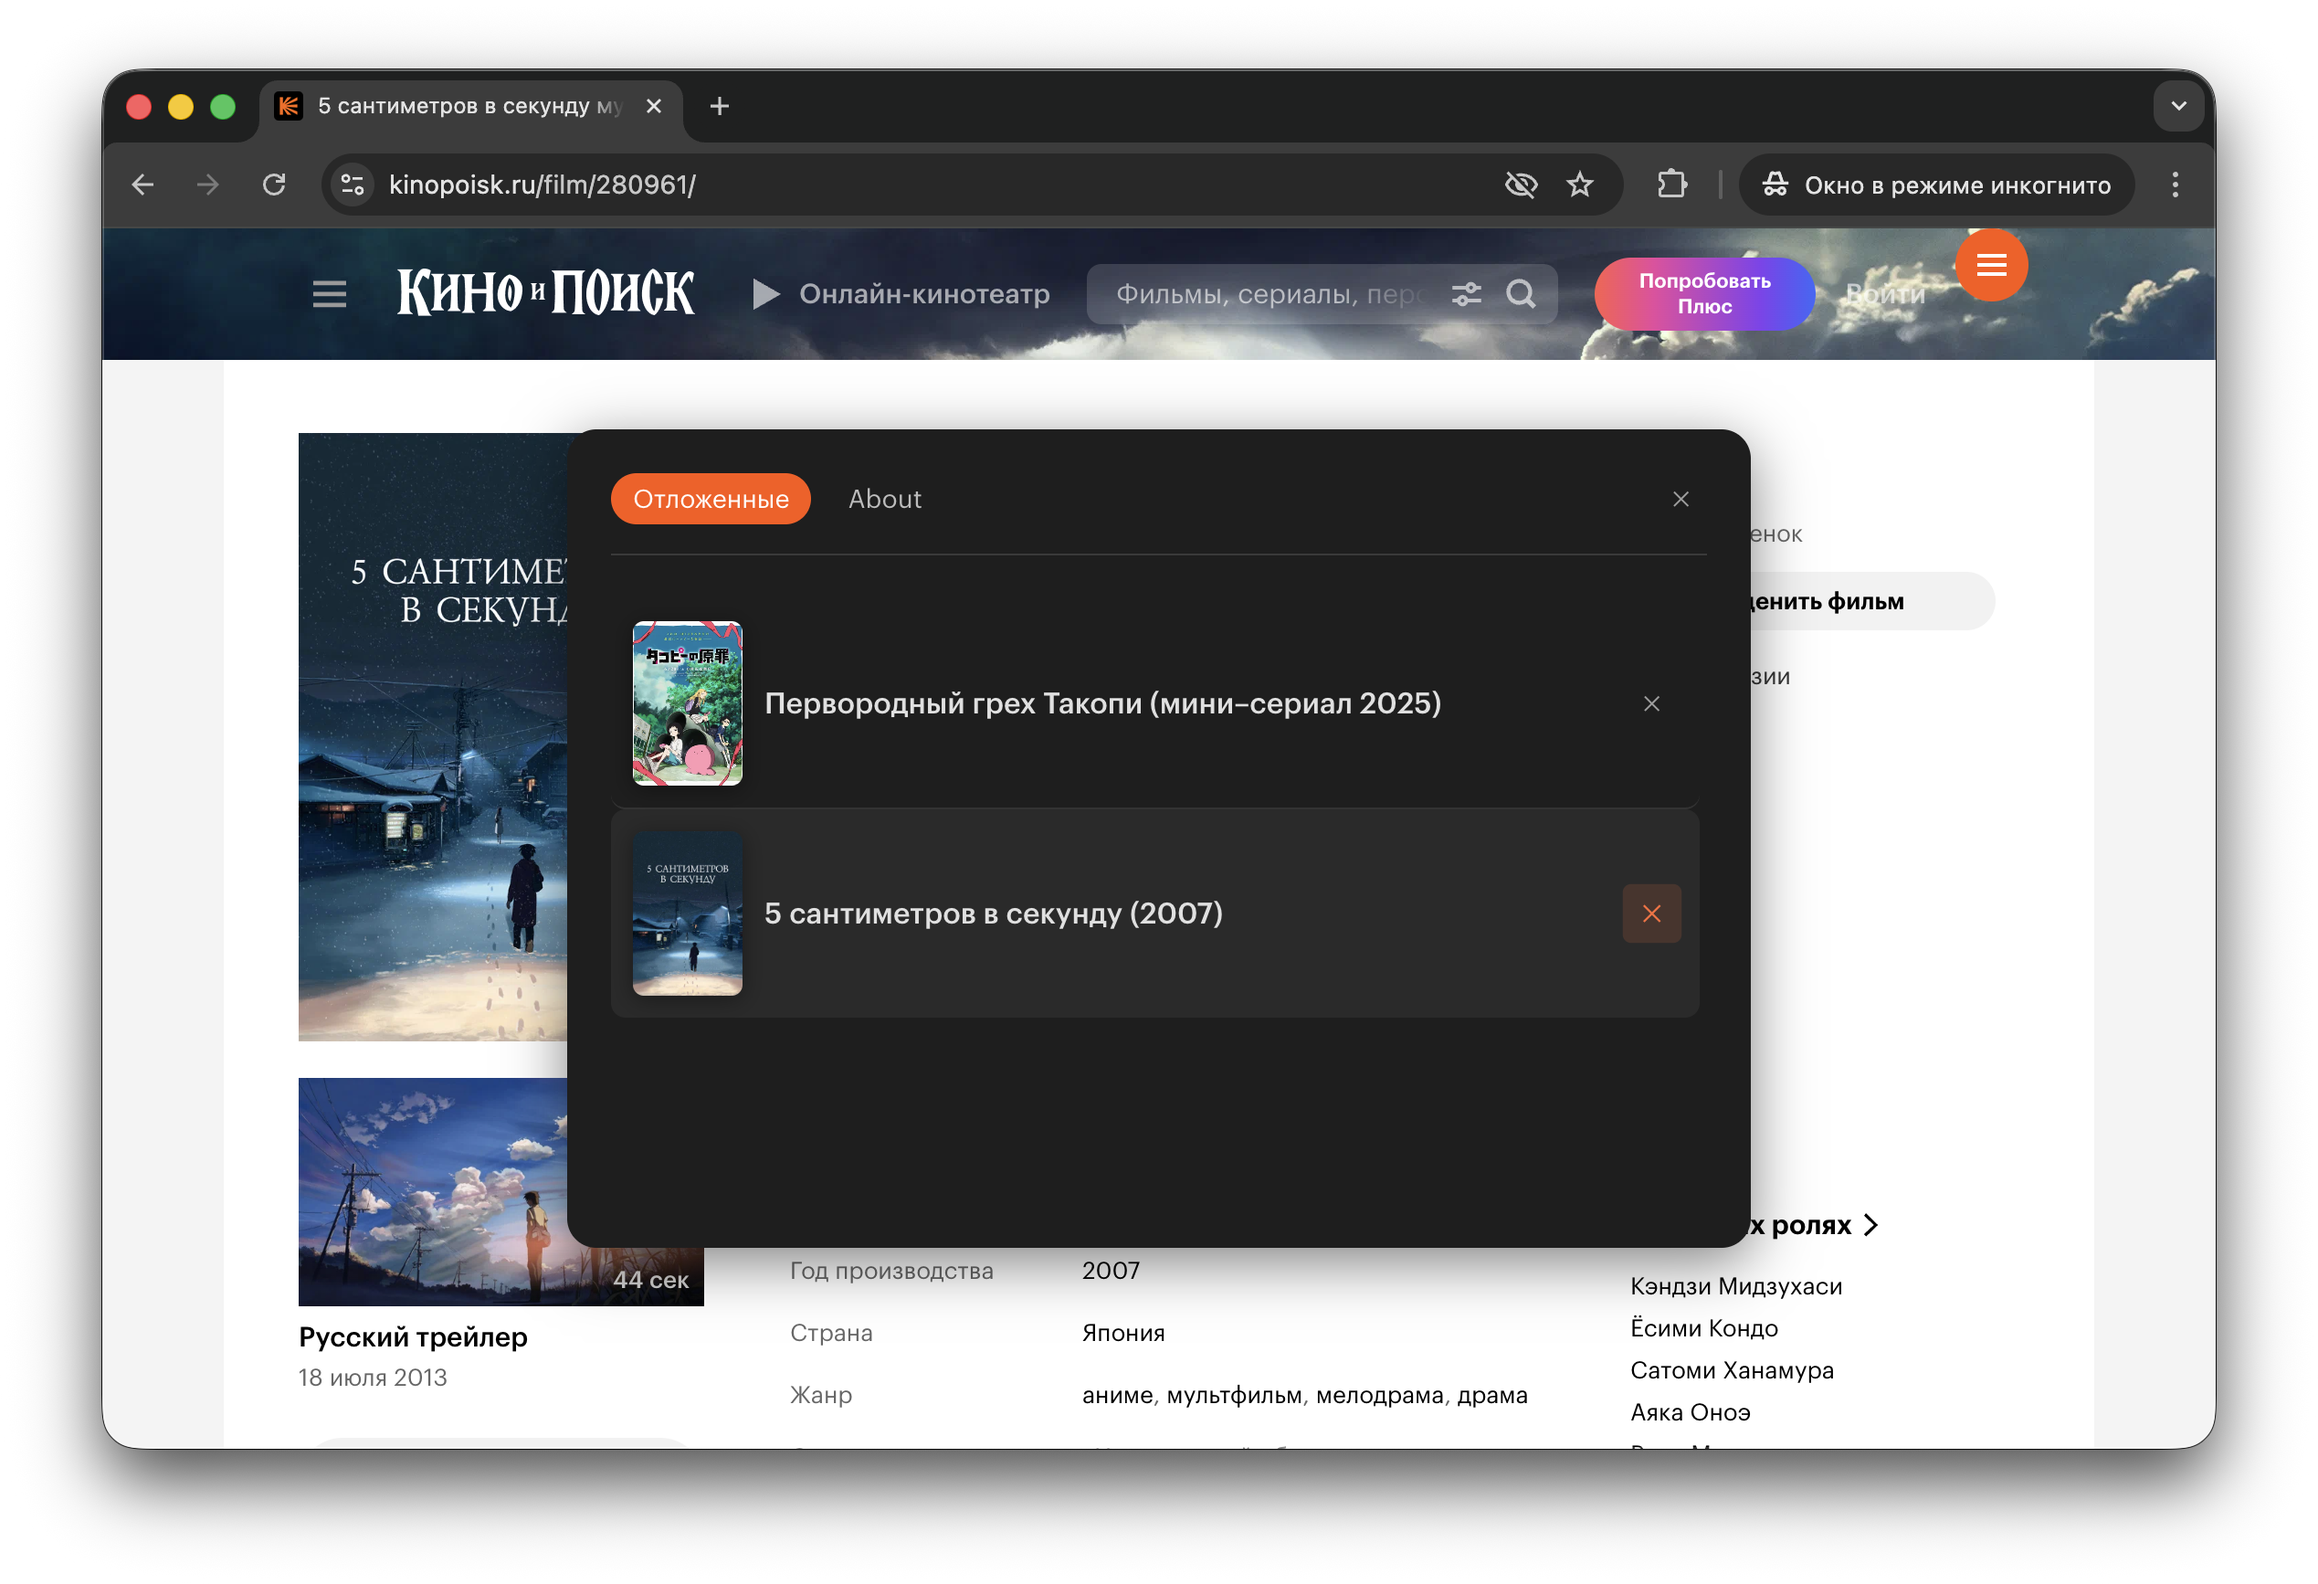
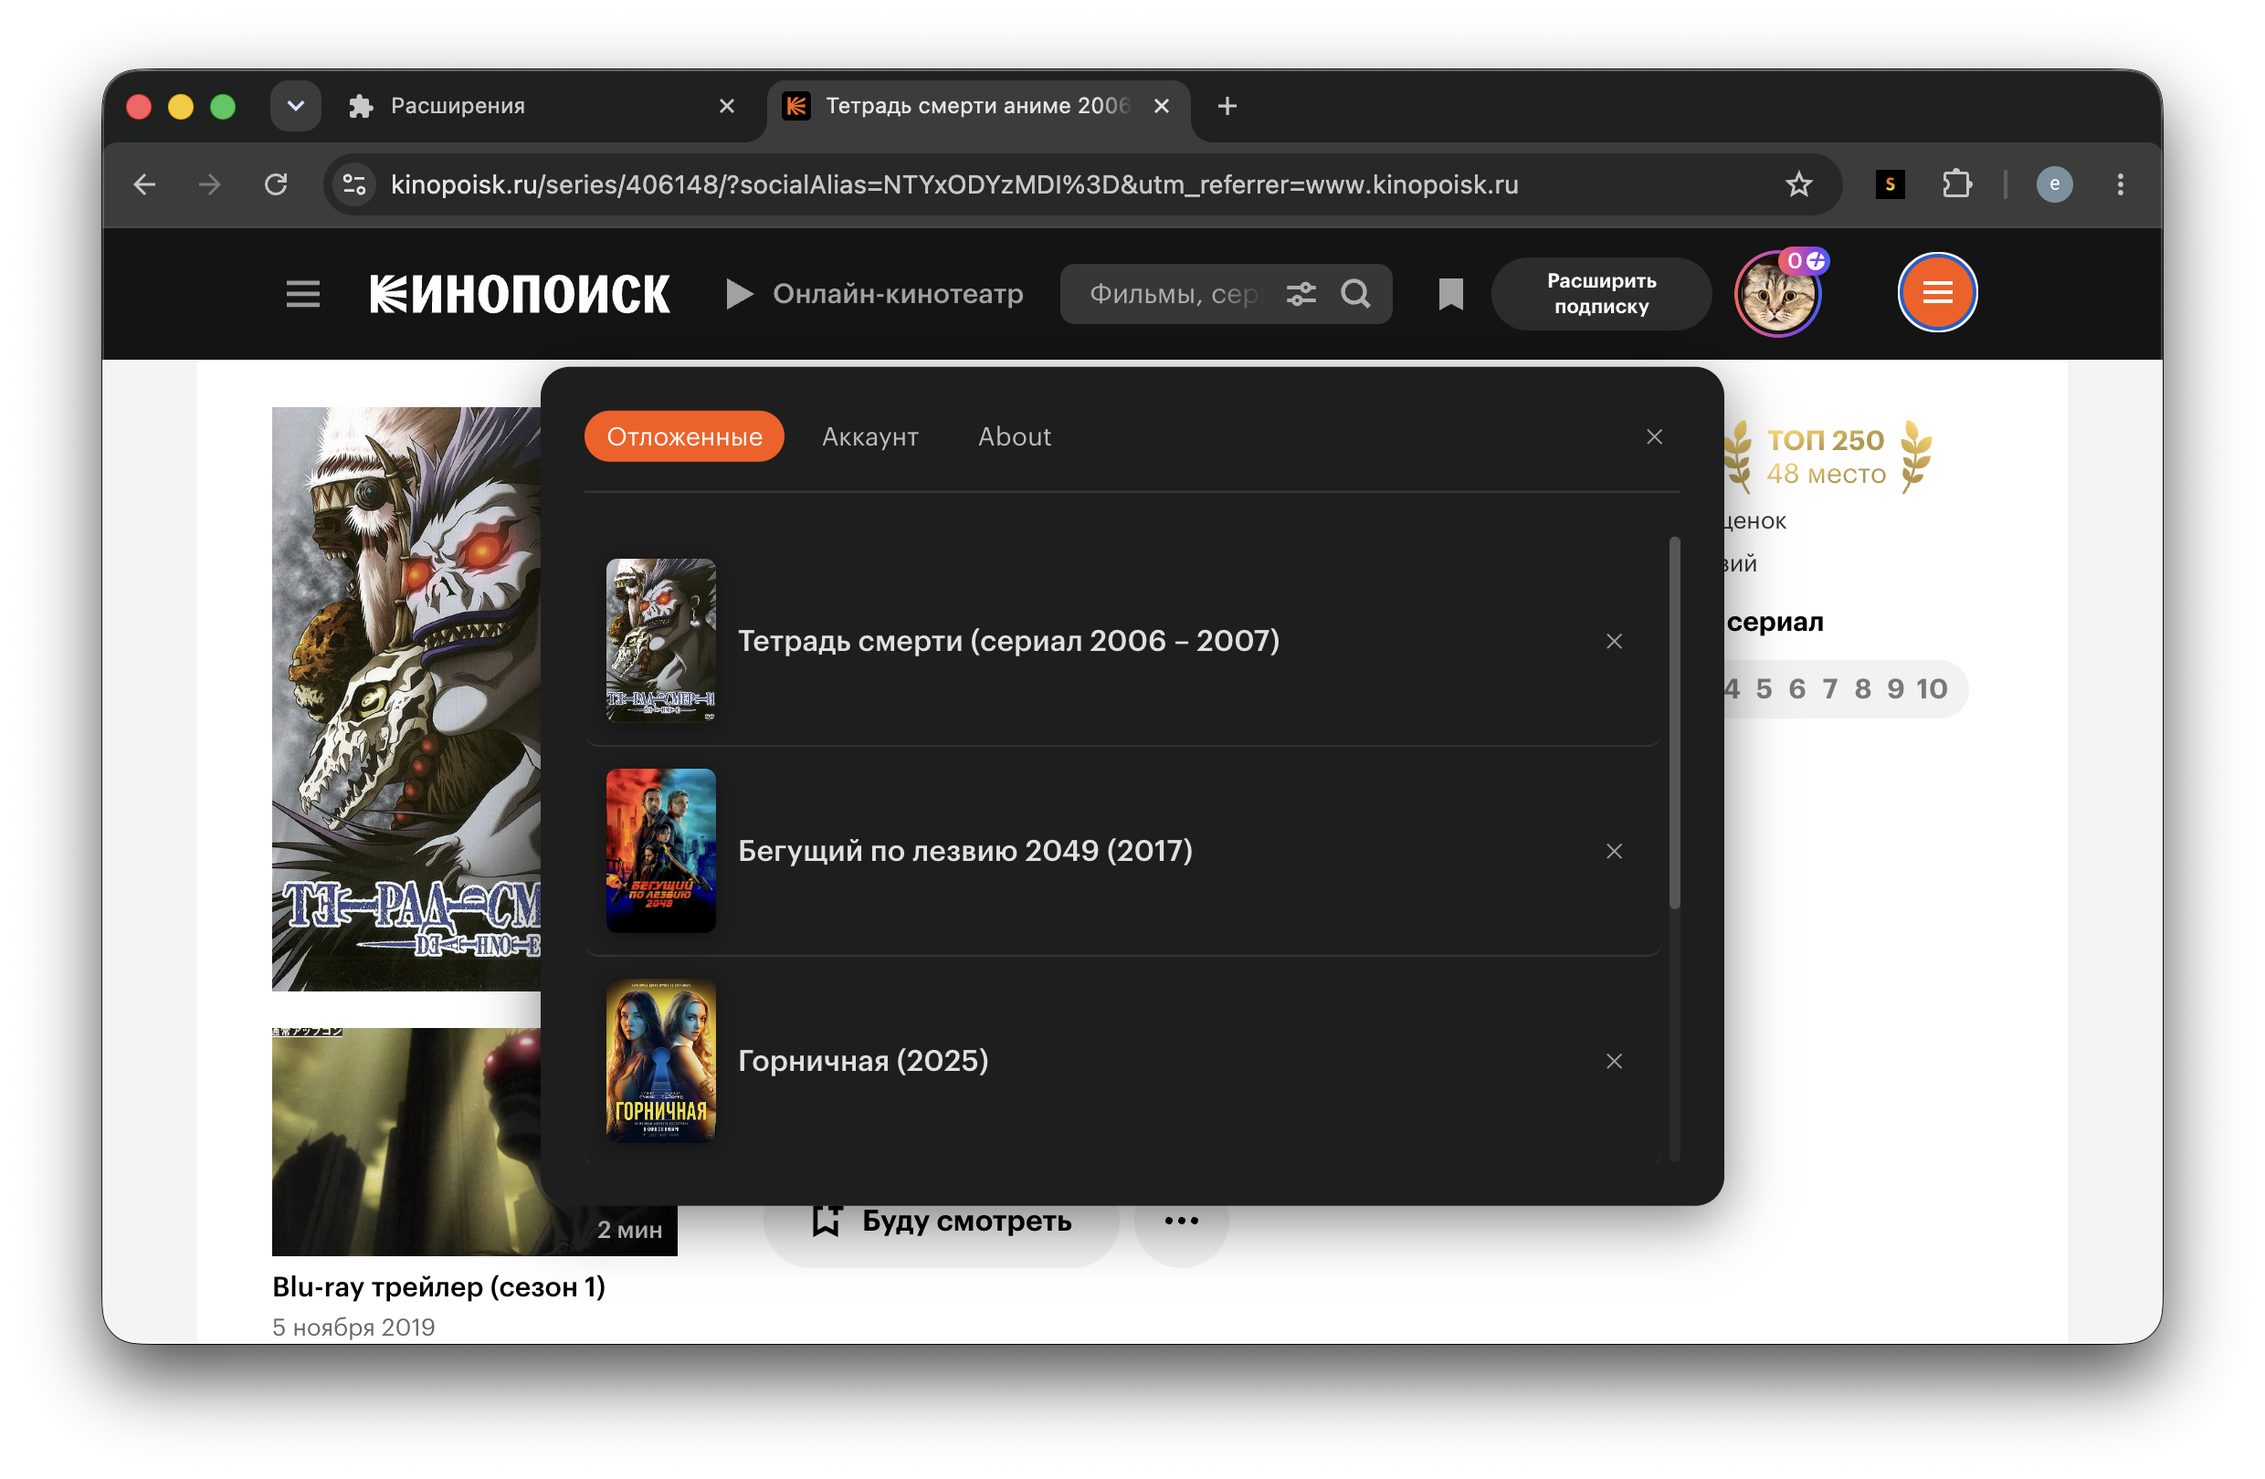
edit readme

Changed region(s): [[0.031, 0.0309, 0.9625, 0.9259], [0.8073, 0.463, 0.8383, 0.4938]]

diff --git a/README.md b/README.md
@@ -50,6 +50,17 @@
 ![Screenshot_4](https://github.com/BeNDYGo/Kinopoisk-To-Sspoisk/blob/main/preview/Screenshot_4.png)
 ![Screenshot_2](https://github.com/BeNDYGo/Kinopoisk-To-Sspoisk/blob/main/preview/Screenshot_2.png)
 ![Screenshot_3](https://github.com/BeNDYGo/Kinopoisk-To-Sspoisk/blob/main/preview/Screenshot_3.png)
+![Screenshot_8](https://github.com/BeNDYGo/Kinopoisk-To-Sspoisk/blob/main/preview/Screenshot_8.png)
+
+
+у расширения так же есть меню, которое открывается при нажатии на иконку расширения.
+
+![Screenshot_9](https://github.com/BeNDYGo/Kinopoisk-To-Sspoisk/blob/main/preview/Screenshot_9.png)
+![Screenshot_10](https://github.com/BeNDYGo/Kinopoisk-To-Sspoisk/blob/main/preview/Screenshot_10.png)
+
+# Регистрация и Вход
+
+Как только вы скачиваете расширение вам присваивается уникальный id на который записываются все ваши фильмы. Благодаря этому даже если вы не вошли в аккаунт ваши данные все равно будут сохраняться в облаке и вы их не потеряете если переустановите расширение. Когда вы регистриретесь вы привязываете к этому id свою почту, что позволяет входить в ваш аккаунт на других устройствах
 
 
 # Обновления:
